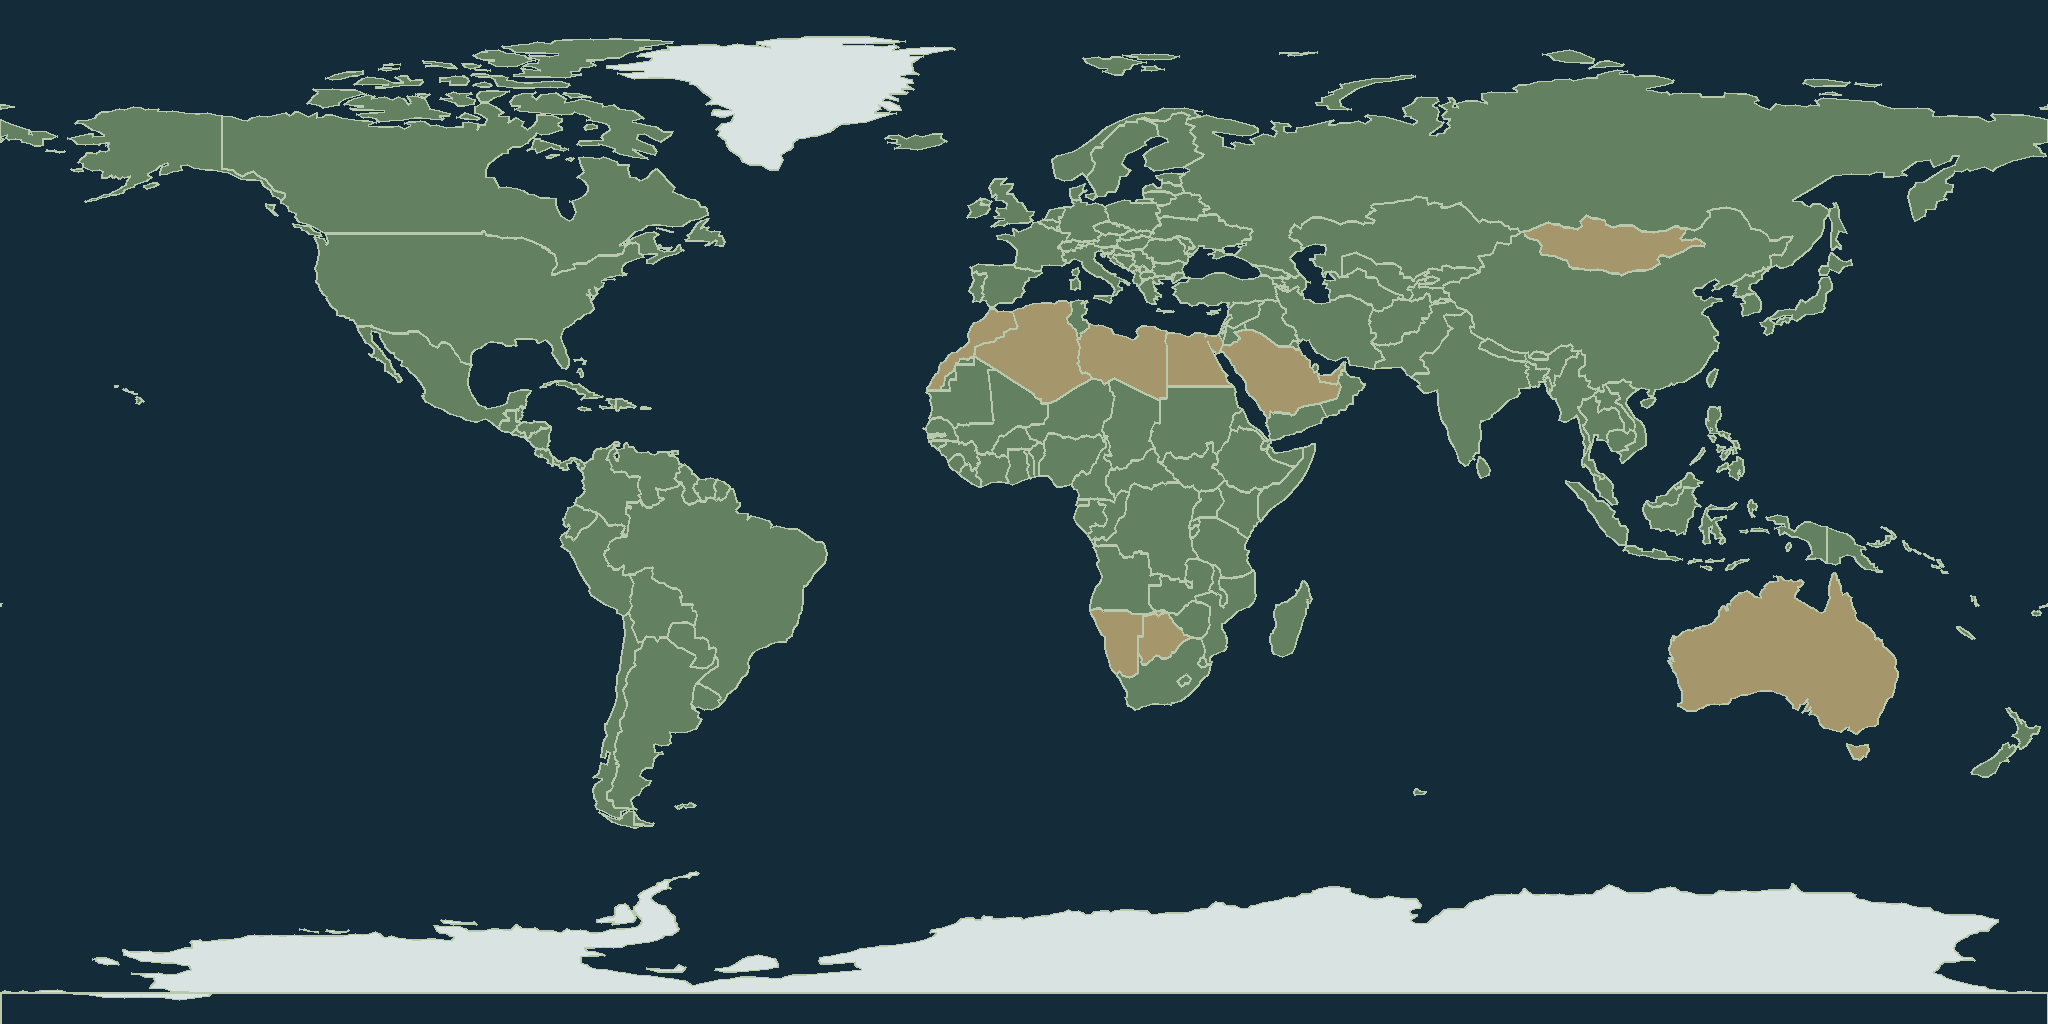
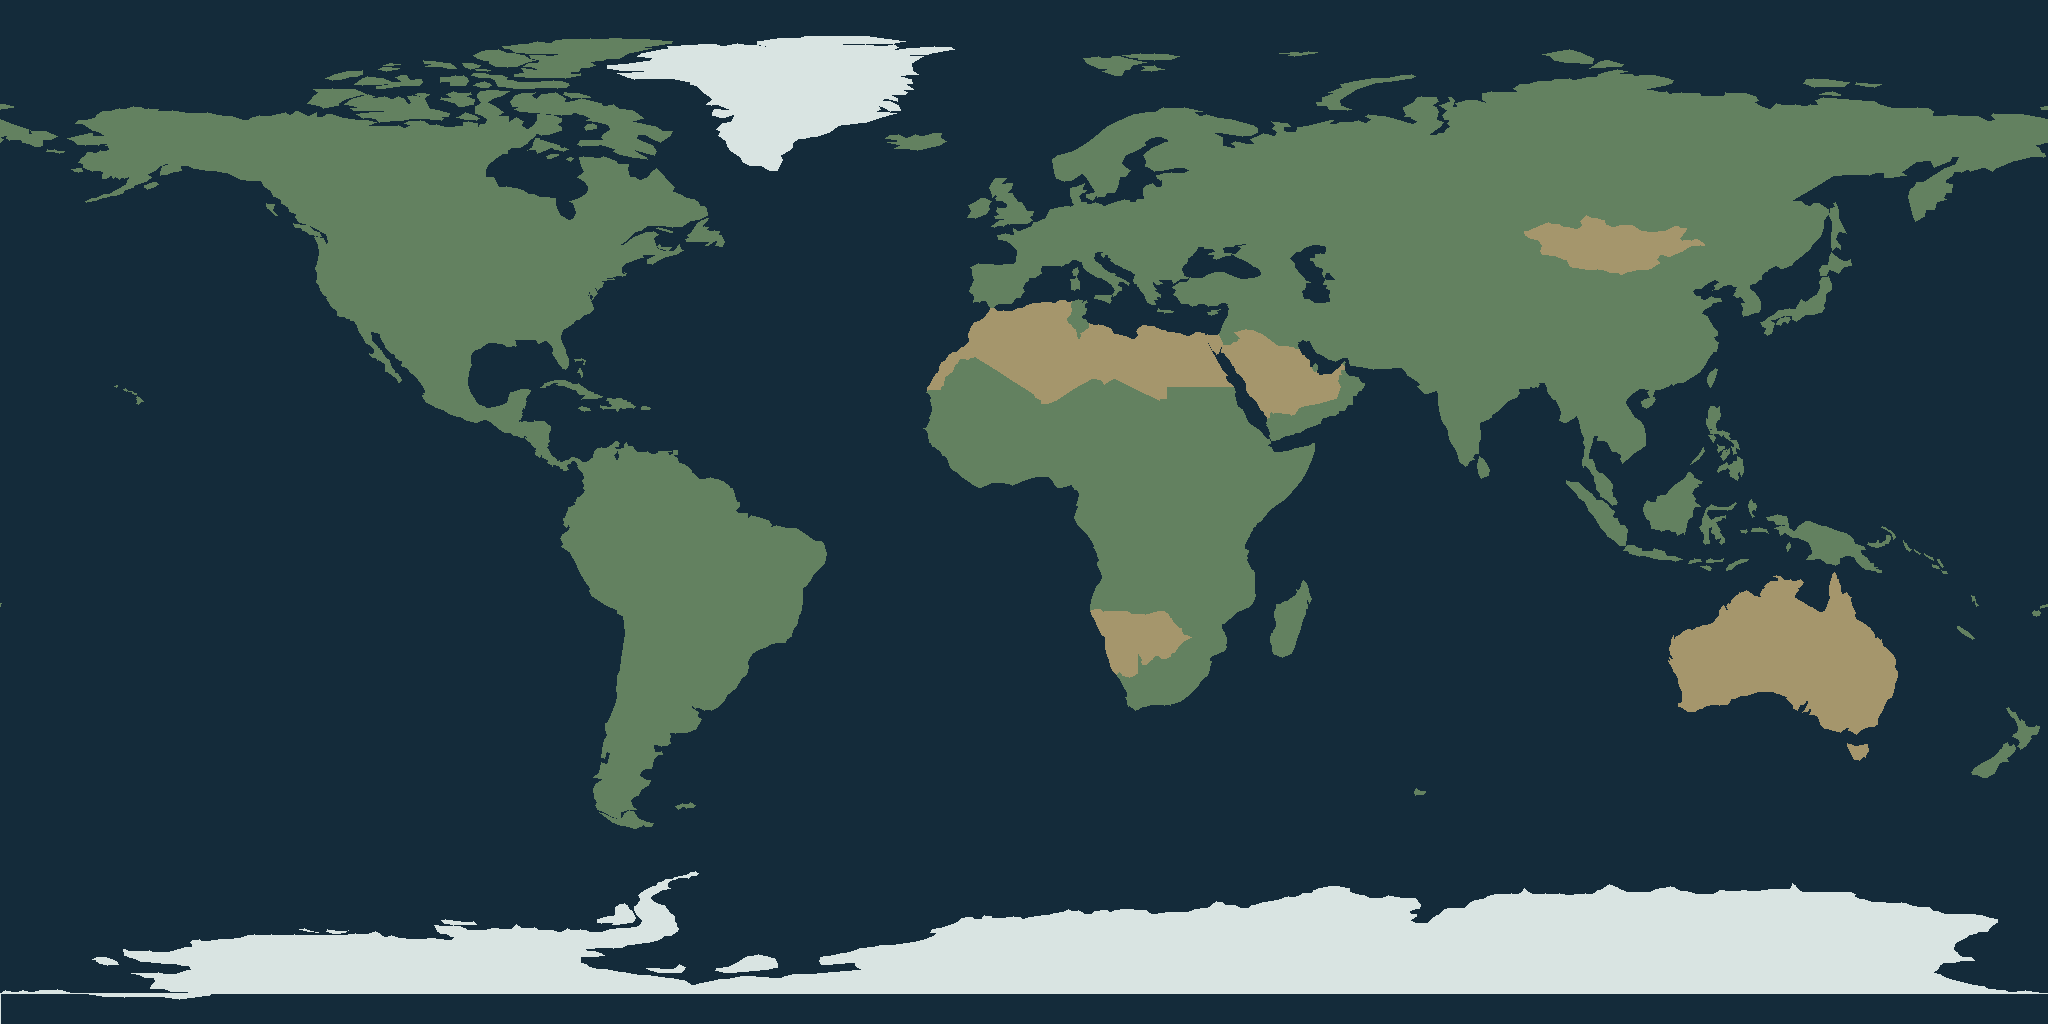
Сделать границы чёткими и вернуть выделение страны

diff --git a/NewsApp/Controls/GlobeControl.cs b/NewsApp/Controls/GlobeControl.cs
@@ -170,6 +170,7 @@ public sealed class GlobeControl : Control
             center.X - radius, center.Y - radius, radius * 2, radius * 2))))
         {
             DrawEarthSurface(context, center, radius);
+            DrawCountryBoundaries(context, center, radius);
             var occupiedLabels = new List<Rect>();
             foreach (var country in _countries.OrderByDescending(x => x.SizeScore))
             {
@@ -459,6 +460,59 @@ public sealed class GlobeControl : Control
         _earthFrameYaw = _yaw;
         _earthFramePitch = _pitch;
         context.DrawImage(_earthFrame, new Rect(0, 0, size, size), new Rect(center.X - radius, center.Y - radius, radius * 2, radius * 2));
+    }
+
+    private void DrawCountryBoundaries(DrawingContext context, Point center, double radius)
+    {
+        var normal = new StreamGeometry();
+        var selected = new StreamGeometry();
+        using (var normalBuilder = normal.Open())
+        using (var selectedBuilder = selected.Open())
+        {
+            foreach (var country in _countries)
+            {
+                var builder = country.Code.Equals(SelectedCountryCode, StringComparison.OrdinalIgnoreCase)
+                    ? selectedBuilder
+                    : normalBuilder;
+                foreach (var polygon in country.Polygons)
+                {
+                    var segment = new List<Point>();
+                    for (var index = 0; index < polygon.Count; index++)
+                    {
+                        var previousGeo = polygon[(index + polygon.Count - 1) % polygon.Count];
+                        var currentGeo = polygon[index];
+                        if (Math.Abs(currentGeo.X - previousGeo.X) > 180)
+                        {
+                            AddBoundarySegment(builder, segment);
+                            segment.Clear();
+                        }
+
+                        var projected = Project(currentGeo.X, currentGeo.Y, center, radius);
+                        if (projected is null)
+                        {
+                            AddBoundarySegment(builder, segment);
+                            segment.Clear();
+                        }
+                        else
+                        {
+                            segment.Add(projected.Value);
+                        }
+                    }
+                    AddBoundarySegment(builder, segment);
+                }
+            }
+        }
+
+        context.DrawGeometry(null, new Pen(new SolidColorBrush(Color.Parse("#B8C9AE")), 0.85), normal);
+        context.DrawGeometry(null, new Pen(new SolidColorBrush(Color.Parse("#F5B642")), 2.1), selected);
+    }
+
+    private static void AddBoundarySegment(StreamGeometryContext builder, List<Point> points)
+    {
+        if (points.Count < 2) return;
+        builder.BeginFigure(points[0], false);
+        foreach (var point in points.Skip(1)) builder.LineTo(point);
+        builder.EndFigure(false);
     }
 
     private Point? Project(double longitude, double latitude, Point center, double radius)

diff --git a/NewsApp/tools_build_earth_map.py b/NewsApp/tools_build_earth_map.py
@@ -4,7 +4,6 @@ from PIL import Image, ImageDraw
 
 W, H = 2048, 1024
 water = (20, 43, 58, 255)
-border = (184, 201, 174, 255)
 image = Image.new('RGBA', (W, H), water)
 draw = ImageDraw.Draw(image)
 geo = json.load(open('Assets/countries.geojson', encoding='utf-8'))
@@ -40,21 +39,16 @@ def unwrap(ring):
         out.append((lon,float(lat))); prev=lon
     return out
 
-def wrapped_points(ring):
-    p=unwrap(ring)
-    return [[xy(lon+s,lat) for lon,lat in p] for s in (-360,0,360)]
-
-def draw_ring(ring, fill=None, outline=None, width=1):
-    for pts in wrapped_points(ring):
-        draw.polygon(pts, fill=fill)
-        if outline: draw.line(pts+[pts[0]], fill=outline, width=width, joint='curve')
+def draw_ring(ring, fill):
+    pts=unwrap(ring)
+    for shift in (-360,0,360): draw.polygon([xy(lon+shift,lat) for lon,lat in pts], fill=fill)
 
 for feature in geo['features']:
     props=feature['properties']; g=feature['geometry']; code=code_of(props); polys=[g['coordinates']] if g['type']=='Polygon' else g['coordinates']
     for rings in polys:
         if not rings: continue
-        draw_ring(rings[0], fill=country_color(g,code), outline=border, width=2)
-        for hole in rings[1:]: draw_ring(hole, fill=water, outline=border, width=2)
+        draw_ring(rings[0], country_color(g,code))
+        for hole in rings[1:]: draw_ring(hole, water)
 
 image.save('Assets/earth-countries.png', optimize=True)
 raw=bytearray(image.tobytes())
